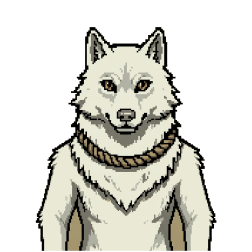
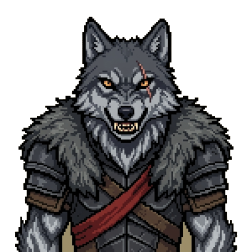
大狼の絵を鎧の銀の獣人に描き直し、絵が出ているときは後ろの一文字（共有者の「共」など）を隠す

diff --git a/index.html b/index.html
@@ -73,6 +73,7 @@ button:focus-visible,summary:focus-visible{outline:2px solid var(--candle);outli
 .r-L .gem{background:linear-gradient(90deg,#f3cf6d,#e9a64c);color:#2a1a00}
 .tart{flex:1;min-height:0;border-radius:.4em;overflow:hidden;background:radial-gradient(circle at 50% 38%,color-mix(in srgb,var(--cc) 85%,#fff 15%),color-mix(in srgb,var(--cc) 30%,#0a0d1c) 78%);display:flex;align-items:center;justify-content:center;position:relative}
 .glyph{font-family:var(--display);font-size:3.3em;line-height:1;color:rgba(255,255,255,.94);text-shadow:0 .06em .25em rgba(0,0,0,.55)}
+.tart:has(img) .glyph{visibility:hidden}
 .catl{position:absolute;left:.3em;bottom:.25em;font-size:.6em;letter-spacing:.1em;padding:0 .4em;border-radius:.3em;background:rgba(10,13,28,.72)}
 .tart img{position:absolute;inset:0;width:100%;height:100%;object-fit:cover;object-position:50% 12%;image-rendering:pixelated;border-radius:inherit}
 .tart img{-webkit-mask-image:linear-gradient(to bottom,#000 80%,transparent 99%);mask-image:linear-gradient(to bottom,#000 80%,transparent 99%)}
@@ -2951,6 +2952,7 @@ async function saveName(v){
 }
 /* アップデート情報（トップ画面に新しい順で出す）。更新したら先頭に1行足す。id は増やしていく */
 const UPDATES=[
+  {id:31,d:'2026-11-03',t:'レジェンドの大狼の絵を、鎧をまとった銀の大狼に描き直しました。カードの絵の後ろに名前の一文字が透けて見えていたのを直しました。'},
   {id:30,d:'2026-11-03',t:'全82種のカード絵を、腰から上・同じ等身・同じ顔の大きさでそろえて描き直しました。絵がなかった新しい30種にも絵がつきました。'},
   {id:29,d:'2026-11-03',t:'襲撃の条件を「使ったあと相手の手札が0枚」に戻しました（もともと0枚でも成立します）。攻撃一辺倒になりやすかったための調整です。'},
   {id:28,d:'2026-11-03',t:'友達対戦・ランクマッチに、1ターン90秒の制限時間がつきました（時間切れになると自動で進みます）。対戦中にアプリを閉じたり通信が切れたりしても、2分以内ならメニューの「対戦に戻る」から同じ試合に戻れます。'},
